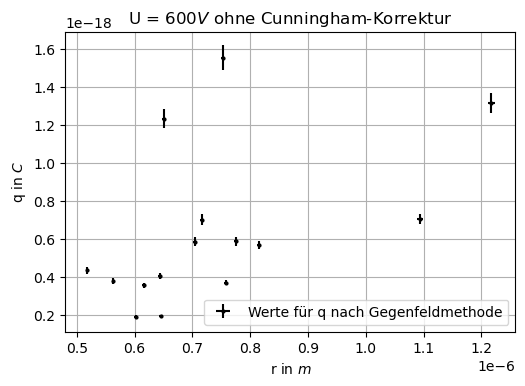
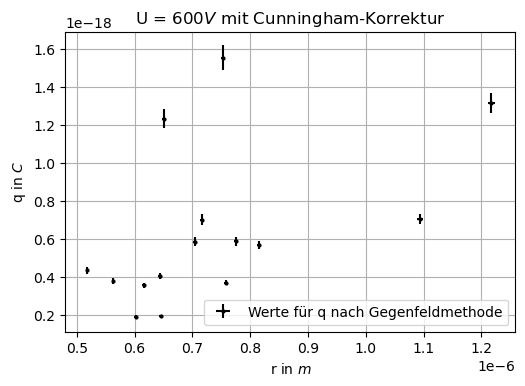
A1e

Changed region(s): [[0.2438, 0.0311, 0.8533, 0.0622]]

diff --git a/AP (Python)/AP3/A1e.py b/AP (Python)/AP3/A1e.py
@@ -94,7 +94,7 @@ for i in range(countFiles+4):
     
 for i in range(1,9):
     st = "ohne"
-    if (i>5):
+    if (i>4):
         st = "mit"
     ax[i].set_title("U = %s$V$ %s Cunningham-Korrektur"%(Us[(i-1)%4],st))
     
